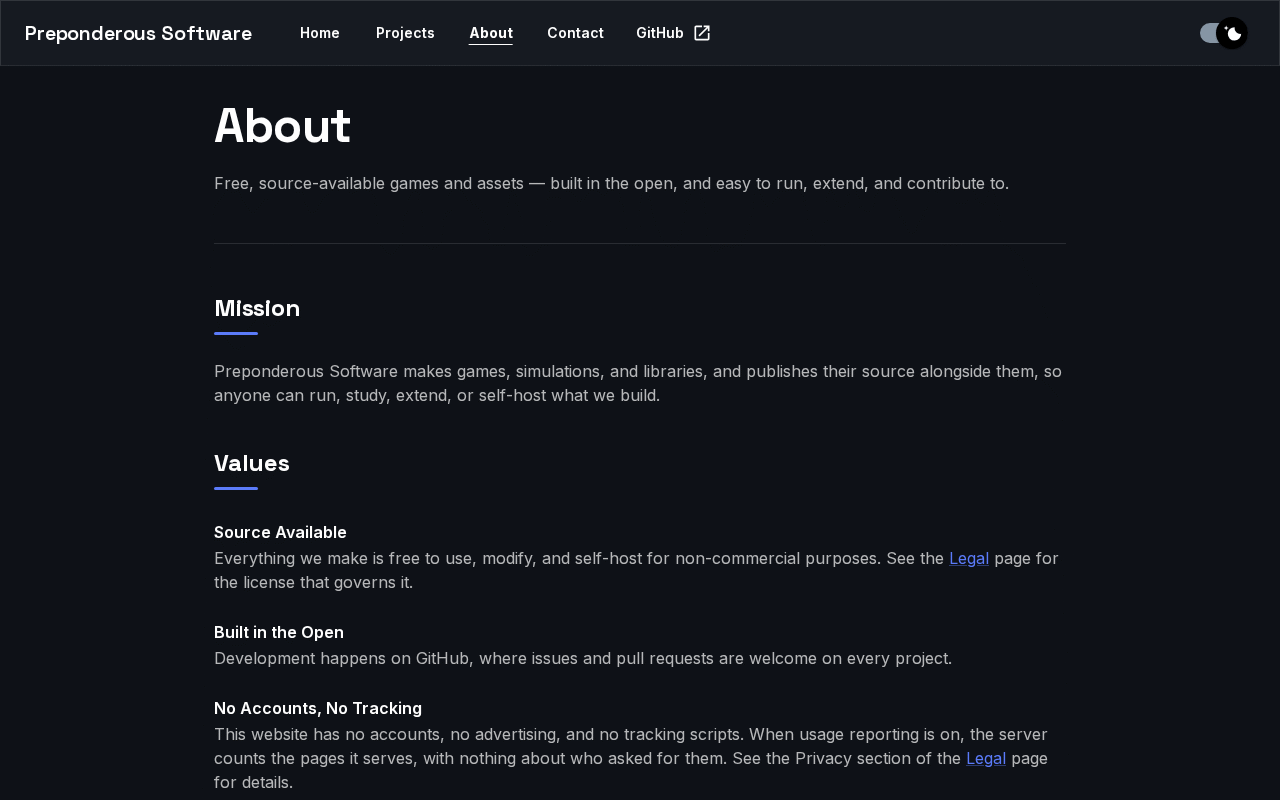
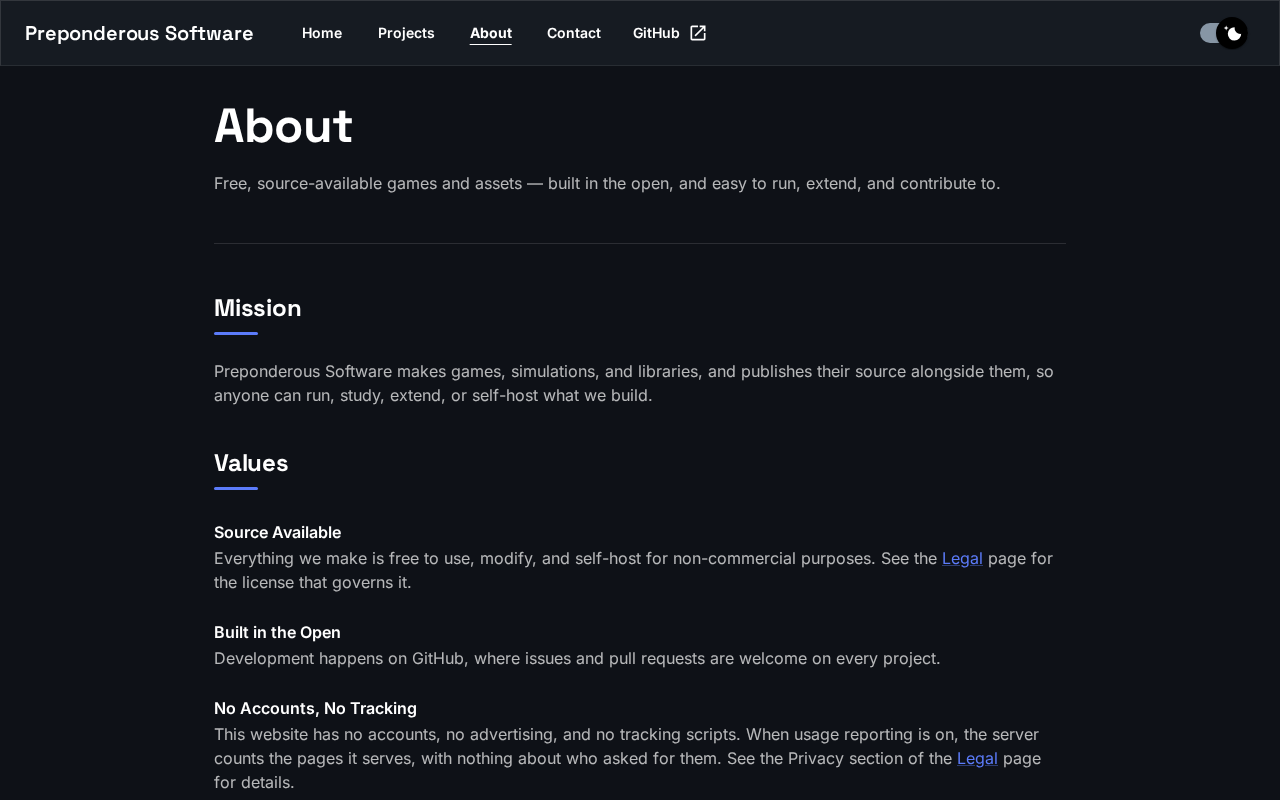
docs: re-shoot the README and USER_GUIDE gallery (self-hosted fonts, 4.5:1 tiles, Ponderosa + streetkit)
Claude-Session: https://claude.ai/code/session_01LYNeun4MTdQwEKgQzkS6Dd

diff --git a/README.md b/README.md
@@ -45,7 +45,7 @@ Every picture here is a real page from a production build of this repository (`n
 </table>
 
 <p align="center">
-  <img src="docs/images/details-mobile-dark.png" alt="On a phone, tapping Ophidian opens its details in a bottom sheet with the clip, description, chips and GitHub button" width="240">
+  <img src="docs/images/details-mobile-dark.png" alt="On a phone, tapping Ophidian opens its details in a bottom sheet with the clip, description, chips, and Visit Site and GitHub buttons" width="240">
 </p>
 <p align="center"><em>On a touch screen, a tap opens the same details in a bottom sheet.</em></p>
 
@@ -58,7 +58,7 @@ Every picture here is a real page from a production build of this repository (`n
     <td width="20%"><img src="docs/images/projects-mobile.png" alt="The projects page on a phone: one card per row"></td>
   </tr>
   <tr>
-    <td colspan="3"><em>Each category is its own section, and the links under the title jump straight to one. Every card has a GitHub button, plus Visit Site where the project is hosted.</em></td>
+    <td colspan="3"><em>Each category is its own section, and the links under the title jump straight to one. A card has a GitHub button, plus Visit Site where the project is hosted; a site whose source is private (Daniel Stephenson) has Visit Site only.</em></td>
   </tr>
 </table>
 
@@ -91,7 +91,7 @@ Every picture here is a real page from a production build of this repository (`n
   </tr>
 </table>
 
-<sub>How these were captured: headless Chromium (Playwright) against <code>next start</code> on a local production build of <code>main</code> on 2026-11-24. The usage figures in the /usage and details shots come from a local trace stub, as noted above, because trace's public endpoints were not answering at capture time.</sub>
+<sub>How these were captured: headless Chromium (Playwright) against <code>next start</code> on a local production build of <code>main</code> on 2026-11-25, after the self-hosted fonts and darker tile colours landed. The usage figures in the /usage and details shots come from a local trace stub, as noted above, because trace's public endpoints were not answering at capture time.</sub>
 
 ## Installation
 

diff --git a/USER_GUIDE.md b/USER_GUIDE.md
@@ -36,7 +36,7 @@ No special software is required to use the website — just a modern web browser
 4. Choose **A–Z** (the default) or **By category** to change the order of the icons within each group.
 5. While anything is filtered, the grid says how many of all the projects are shown ("Showing *N* of *M* projects"). If nothing matches, click **Clear filters** to get every project back.
 
-<p align="center"><img src="docs/images/search-desktop.png" alt="Search &amp; filter opened above the grid, with &quot;sim&quot; typed in the search box, the category, technology and status chips, and &quot;Showing 13 of 44 projects&quot;" width="640"></p>
+<p align="center"><img src="docs/images/search-desktop.png" alt="Search &amp; filter opened above the grid, with &quot;sim&quot; typed in the search box, the category, technology and status chips, and &quot;Showing 14 of 46 projects&quot;" width="640"></p>
 
 ### Browsing Projects by Category
 
